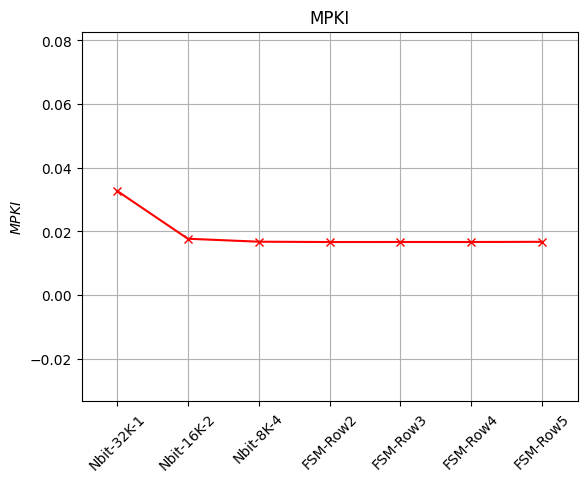
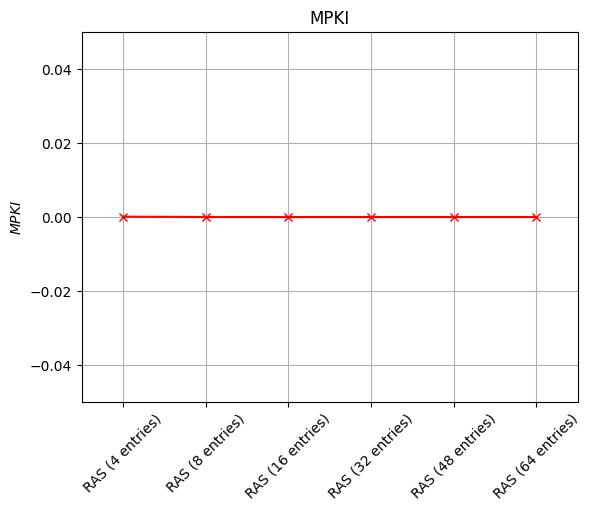
after running the python script for every output in 5.5

diff --git a/plot_mpki_ipc.py b/plot_mpki_ipc.py
@@ -7,7 +7,7 @@ import matplotlib.pyplot as plt
 import numpy as np
 
 ## For nbit predictors
-predictors_to_plot = [ "  Nbit" , "  FSM" ]
+predictors_to_plot = [ "  Nbit" , "  FSM" , "RAS "]
 
 x_Axis = []
 mpki_Axis = []
@@ -17,13 +17,13 @@ line = fp.readline()
 while line:
 	tokens = line.split()
 	if line.startswith("Total Instructions:"):
-		total_ins = np.long(tokens[2])
+		total_ins = int(tokens[2])
 	else:
 		for pred_prefix in predictors_to_plot:
 			if line.startswith(pred_prefix):
-				predictor_string = tokens[0].split(':')[0]
-				correct_predictions = np.long(tokens[1])
-				incorrect_predictions = np.long(tokens[2])
+				predictor_string = line.split(':')[0]
+				correct_predictions = int(np.long(tokens[-2]))
+				incorrect_predictions = int(np.long(tokens[-1]))
 				x_Axis.append(predictor_string)
 				mpki_Axis.append(incorrect_predictions / (total_ins / 1000.0))
 
